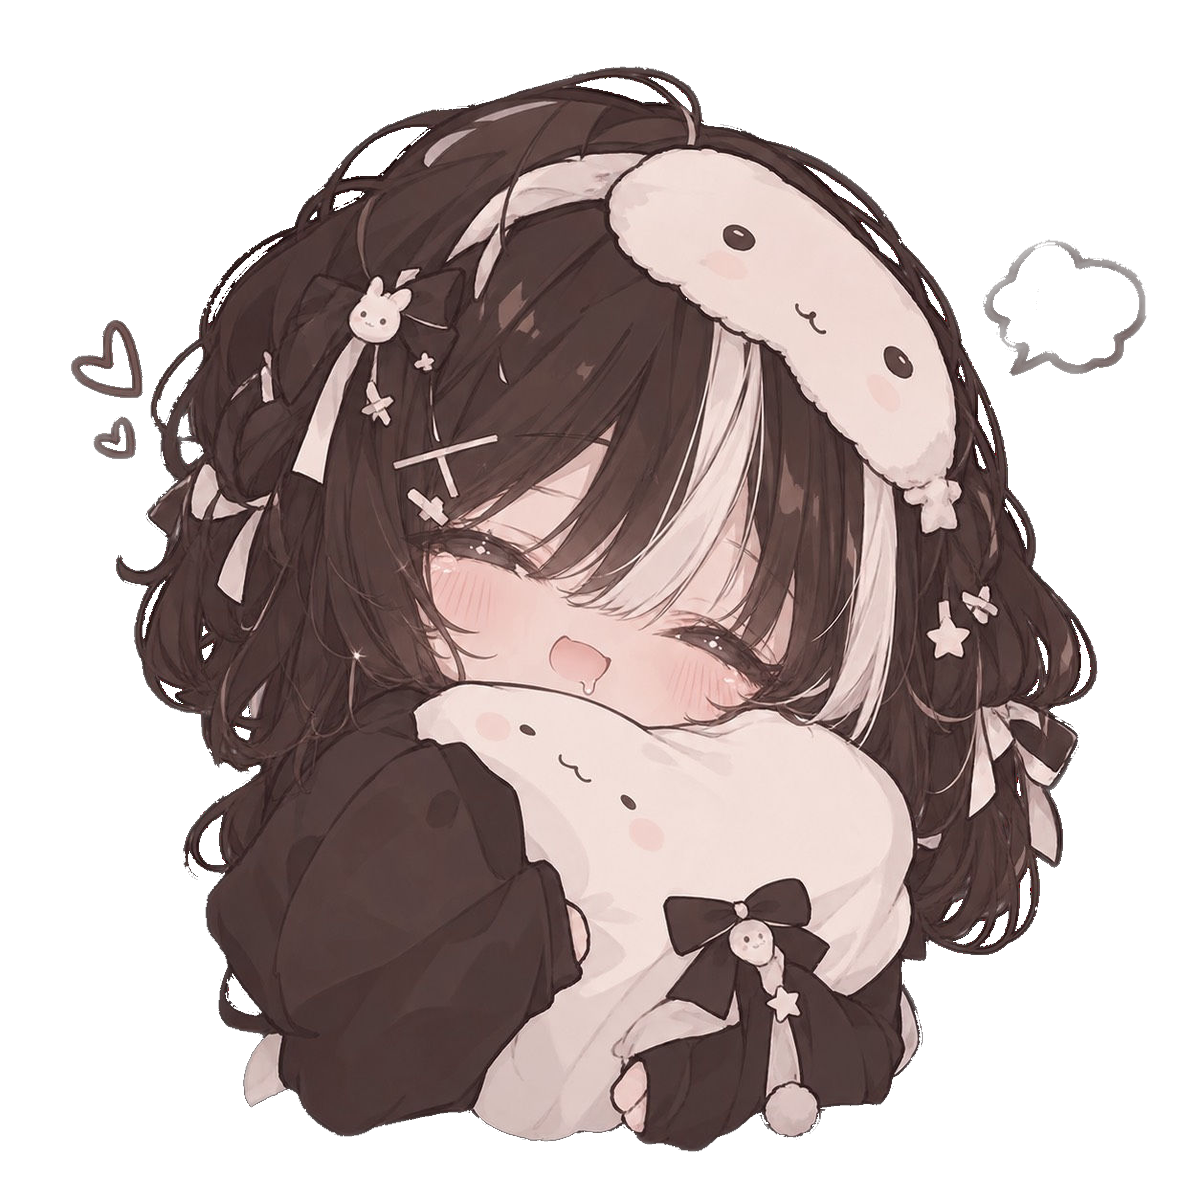
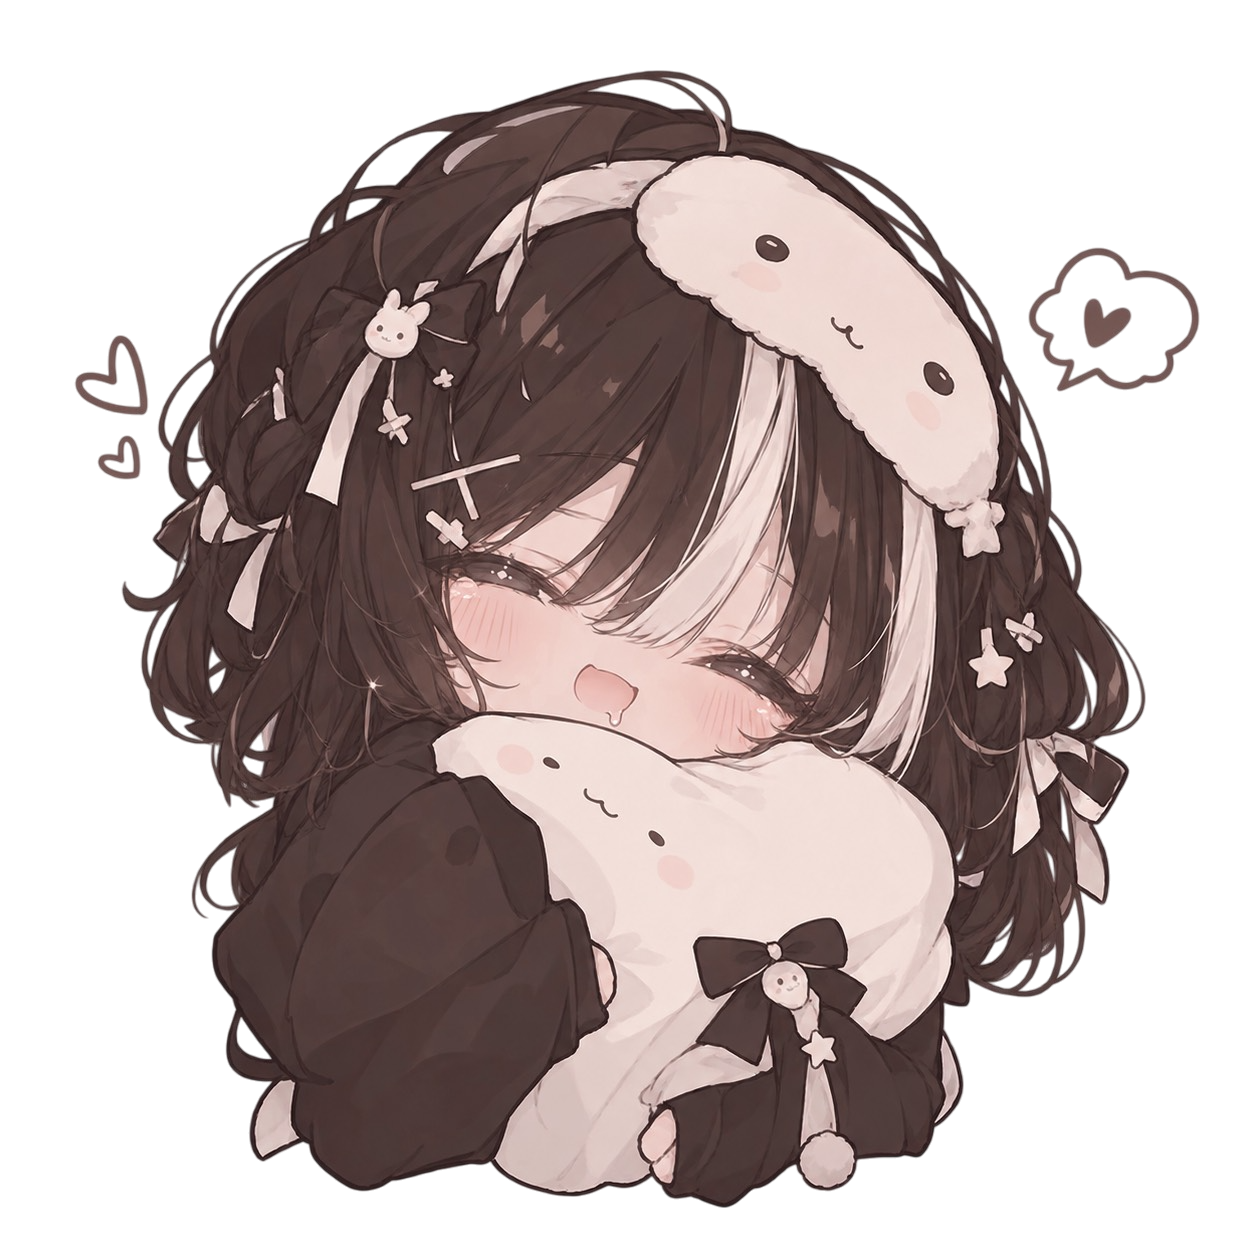
Use native Photoroom transparent Krepe chibi.

diff --git a/README.md b/README.md
@@ -25,7 +25,8 @@ Drop files into `public/assets/` using these names (or update the `src` / CSS ur
 
 | File | Role |
 |------|------|
-| `krepe-hug.png` | Floating chibi (transparent bg) |
+| `krepe-hug.png` | Floating chibi (native transparent PNG) |
+| `favicon.png` | Browser tab icon (cropped chibi) |
 | `krepe-sleep.jpg` | About section scene |
 | `cloud.svg` | Milk cloud décor |
 | `chocolate.svg` | Chocolate motif |
